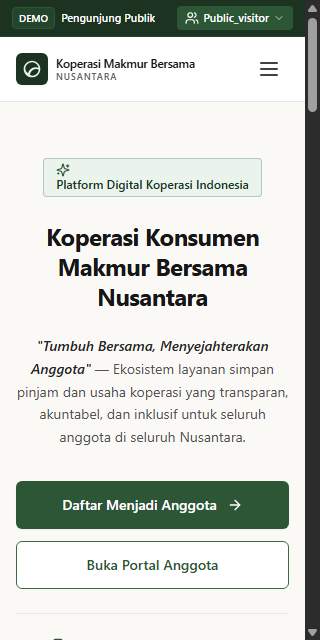
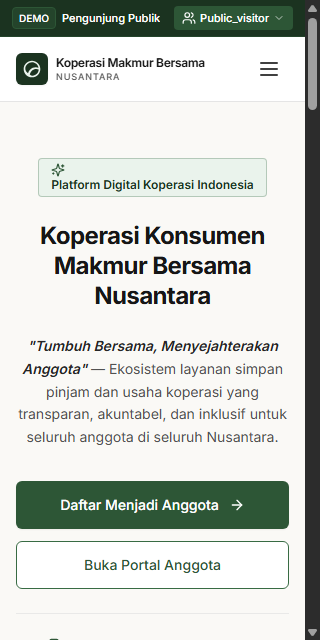
test(phase-2): correct responsive overflow measurement

diff --git a/scripts/verify_responsive.js b/scripts/verify_responsive.js
@@ -332,20 +332,50 @@ async function main() {
               const bodyText = document.body.innerText || '';
               const rawMarkdownFound = bodyText.includes('**');
 
-              // Find elements overflowing viewport width
+              // Threshold for layout bounds (sub-pixel rounding tolerance)
+              const OVERFLOW_TOLERANCE = 1.0;
+
+              // Overflow occurs if scrollWidth exceeds clientWidth
+              const scrollOverflow =
+                docScrollW > clientW + OVERFLOW_TOLERANCE ||
+                bodyScrollW > clientW + OVERFLOW_TOLERANCE;
+
+              // Find elements overflowing client layout width
               const overflowingElements = [];
               const clippedElements = [];
 
               document.querySelectorAll('*').forEach((el) => {
                 const rect = el.getBoundingClientRect();
                 if (rect.width > 0 && rect.height > 0) {
-                  // Overflow viewport width
-                  if (rect.right > innerW + 1.5) {
+                  // Check if element is inside an intentional horizontally scrollable ancestor (e.g. data table)
+                  let isInsideScrollable = false;
+                  let curr = el.parentElement;
+                  while (curr && curr !== document.body && curr !== document.documentElement) {
+                    const style = window.getComputedStyle(curr);
+                    if (style.overflowX === 'auto' || style.overflowX === 'scroll') {
+                      isInsideScrollable = true;
+                      break;
+                    }
+                    curr = curr.parentElement;
+                  }
+
+                  // Overflow clientWidth boundary (if not in an intentional scroll container)
+                  if (!isInsideScrollable && rect.right > clientW + OVERFLOW_TOLERANCE) {
                     overflowingElements.push({
                       tag: el.tagName.toLowerCase(),
-                      className: (el.className || '').toString().slice(0, 60),
+                      id: el.id || '',
+                      className: (el.className || '').toString().slice(0, 80),
+                      width: Math.round(rect.width),
+                      left: Math.round(rect.left),
                       right: Math.round(rect.right),
-                      width: Math.round(rect.width)
+                      viewportRight: Math.round(clientW),
+                      parent: el.parentElement
+                        ? {
+                            tag: el.parentElement.tagName.toLowerCase(),
+                            id: el.parentElement.id || '',
+                            className: (el.parentElement.className || '').toString().slice(0, 60),
+                          }
+                        : null,
                     });
                   }
 
@@ -357,10 +387,17 @@ async function main() {
                     if (isClippedOverflow && rect.right > pRect.right + 2 && el.tagName !== 'SVG' && !el.classList.contains('truncate')) {
                       clippedElements.push({
                         tag: el.tagName.toLowerCase(),
-                        parentTag: el.parentElement.tagName.toLowerCase(),
+                        id: el.id || '',
                         className: (el.className || '').toString().slice(0, 60),
-                        pRight: Math.round(pRect.right),
-                        elRight: Math.round(rect.right)
+                        width: Math.round(rect.width),
+                        left: Math.round(rect.left),
+                        right: Math.round(rect.right),
+                        parent: {
+                          tag: el.parentElement.tagName.toLowerCase(),
+                          id: el.parentElement.id || '',
+                          className: (el.parentElement.className || '').toString().slice(0, 60),
+                          pRight: Math.round(pRect.right),
+                        },
                       });
                     }
                   }
@@ -378,7 +415,7 @@ async function main() {
                   isUsable: b.getBoundingClientRect().width >= 20 && b.getBoundingClientRect().height >= 20
                 }));
 
-              const hasOverflow = docScrollW > innerW + 1 || bodyScrollW > innerW + 1 || overflowingElements.length > 0;
+              const hasOverflow = scrollOverflow || overflowingElements.length > 0;
 
               return {
                 innerWidth: innerW,
@@ -406,8 +443,8 @@ async function main() {
         // Validation Rules:
         // - DOM must be ready
         // - DOM completeness validation must pass
-        // - docScrollWidth === innerWidth (or <= innerWidth)
-        // - bodyScrollWidth <= innerWidth
+        // - docScrollWidth <= clientWidth + 1
+        // - bodyScrollWidth <= clientWidth + 1
         // - No overflow
         // - No raw markdown **
         // - No clipping
@@ -417,6 +454,8 @@ async function main() {
           isDomReady &&
           domValidation.isValid &&
           !metrics.hasOverflow &&
+          metrics.docScrollWidth <= metrics.clientWidth + 1 &&
+          metrics.bodyScrollWidth <= metrics.clientWidth + 1 &&
           !metrics.rawMarkdownFound &&
           metrics.clippedElements.length === 0 &&
           metrics.buttonsSample.length > 0 &&
@@ -424,7 +463,10 @@ async function main() {
 
         console.log(`DOM Ready: ${isDomReady} | DOM Valid: ${domValidation.isValid} (${domValidation.reason})`);
         console.log(`Buttons sample (${metrics.buttonsSample.length}):`, metrics.buttonsSample.map(b => `${b.tag}[${b.text}:${b.width}x${b.height}]`).join(', '));
-        console.log(`InnerWidth: ${metrics.innerWidth} | ScrollWidth: ${metrics.docScrollWidth} | BodyScrollW: ${metrics.bodyScrollWidth}`);
+        console.log(`InnerWidth: ${metrics.innerWidth} | ClientWidth: ${metrics.clientWidth} | ScrollWidth: ${metrics.docScrollWidth} | BodyScrollW: ${metrics.bodyScrollWidth}`);
+        if (metrics.overflowingElements.length > 0) {
+          console.error(`Overflowing elements (${metrics.overflowingElements.length}):`, JSON.stringify(metrics.overflowingElements, null, 2));
+        }
         console.log(`Screenshot: ${shotFilename} (${Math.round(fileSize / 1024)} KB) -> STATUS: ${isPassed ? 'PASS' : 'FAIL'}`);
 
         results.push({
@@ -454,7 +496,9 @@ async function main() {
         Page: r.page,
         Viewport: r.viewport,
         'Inner Width': r.metrics.innerWidth,
+        'Client Width': r.metrics.clientWidth,
         'Doc ScrollW': r.metrics.docScrollWidth,
+        'Body ScrollW': r.metrics.bodyScrollWidth,
         'DOM Valid': r.domValidation.isValid ? 'YES' : 'FAIL',
         Overflow: r.metrics.hasOverflow ? 'FAIL' : 'OK',
         'Raw Markdown': r.metrics.rawMarkdownFound ? 'FAIL' : 'OK',

diff --git a/docs/PHASE_2_2_REMEDIATION_REPORT.md b/docs/PHASE_2_2_REMEDIATION_REPORT.md
@@ -108,41 +108,45 @@ Seluruh perintah pengujian dijalankan ulang secara terpisah dengan hasil sukses 
 
 ## 6. HASIL VERIFIKASI RESPONSIVITAS & AUTOMATED BROWSER AUDIT
 
-### 6.1 Metodologi Sinkronisasi & Validasi Kelengkapan DOM
-Pengujian responsivitas otomatis dijalankan menggunakan Google Chrome headless (`C:\Program Files\Google\Chrome\Application\chrome.exe` dengan `--headless=new`) melalui skrip otomasi [`scripts/verify_responsive.js`](file:///c:/Users/ocitt/OneDrive/Dokumen/Finance/scripts/verify_responsive.js).
+### 6.1 Koreksi Metodologi Pengukuran Horizontal Overflow
+Berdasarkan tinjauan Phase 2.2.1, metodologi evaluasi horizontal overflow pada [`scripts/verify_responsive.js`](file:///c:/Users/ocitt/OneDrive/Dokumen/Finance/scripts/verify_responsive.js) telah disempurnakan:
 
-Fitur keamanan dan validitas pengujian mutakhir:
-1. **Target Tab Halaman Bersih:** Skrip mendeteksi dan secara eksplisit menempelkan sesi CDP ke target bertipe `page` (`chrome://newtab/` yang dinavigasi ke target), bukan background extension.
-2. **Sinkronisasi Berbasis Kondisi DOM Nyata:** Menggantikan fixed delay dengan polling asinkron hingga elemen kritis React selesai dimuat dan dirender:
-   - **Beranda (`/`):** Memastikan `h1` memuat identitas "Koperasi" dan tombol CTA primer (`Daftar Menjadi Anggota`, dsb.) berukuran nyata (`offsetWidth > 0 && offsetHeight > 0`).
-   - **Pendaftaran (`/daftar`):** Memastikan `h1` memuat judul form, elemen `<form>` aktif, minimal 2 input terlihat (`fullName`, `demoId`), dan tombol navigasi `Selanjutnya` berukuran nyata.
-3. **Validasi Kelengkapan DOM Sebelum Pengukuran:** Sebelum evaluasi overflow, skrip memverifikasi:
-   - `document.body.innerText` tidak kosong (panjang karakter > 300 untuk beranda dan > 200 untuk pendaftaran).
-   - Elemen utama memiliki dimensi non-zero (`width > 0 && height > 0`).
-   - `buttonsSample` wajib terisi (berisi minimal 6 elemen interaktif aktif per skenario).
-   - Berkas tangkapan layar screenshot berukuran valid (> 10 KB) dan menampilkan UI nyata, bukan kanvas kosong.
-4. **Isolasi Profil Browser:** Setiap pengujian dijalankan dengan direktori `tempProfileDir` unik untuk menjamin ketiadaan data residual `localStorage`.
+1. **Koreksi Kesalahan Pembanding Viewport Terdahulu:**
+   - *Metode Sebelumnya:* Menggunakan `window.innerWidth` sebagai satu-satunya pembanding scroll width. Pada peramban desktop dengan *classic vertical scrollbar*, `window.innerWidth` mencakup lebar scrollbar (15–17 px), sehingga tidak merefleksikan batas ruang layout CSS sebenarnya.
+   - *Metode Terkoreksi:* Batas acuan layout CSS mutlak adalah `document.documentElement.clientWidth`. Kondisi overflow dihitung terhadap batas `clientWidth`, yaitu:
+     $$\text{Overflow} \iff (\text{docScrollWidth} > \text{clientWidth} + 1.0) \lor (\text{bodyScrollWidth} > \text{clientWidth} + 1.0)$$
+   - Nilai `window.innerWidth` tetap dicatat untuk keperluan diagnostik ukuran jendela fisik browser.
+2. **Pemeriksaan Batas Koordinat Elemen (`getBoundingClientRect().right`):**
+   - Setiap elemen diuji terhadap `rect.right > clientWidth + 1.0`.
+   - Skrip membedakan overflow disengaja (elemen di dalam kontainer yang memiliki `overflow-x: auto` atau `overflow-x: scroll` seperti tabel data) dari overflow layout halaman utama.
+   - Jika ditemukan overflow, skrip mencatat rincian lengkap: tag, id, className, lebar, posisi left/right, batas clientWidth, dan elemen induknya.
+3. **Validasi Kesiapan & Kelengkapan DOM Terpadu:**
+   - Polling asinkron hingga elemen spesifik React selesai dirender (`h1`, form, tombol CTA, input).
+   - Validasi kelengkapan isi (`bodyText.length > 200/300`, `buttonsSample` minimal 6 elemen, ukuran elemen non-zero).
+   - Setiap pengujian menggunakan profil Chrome sementara (`tempProfileDir`) terisolasi dari sisa cache/localStorage.
 
-### 6.2 Tabel Pengukuran Aktual 16 Kasus Uji
+### 6.2 Tabel Pengukuran Aktual 16 Kasus Uji Terkoreksi
 
-| Halaman | Viewport | Lebar Viewport (`innerW`) | `docScrollWidth` | DOM Completeness | Horizontal Overflow | Raw Markdown `**` | Clipping Unintended | Buttons Sampled | Ukuran PNG | Status |
-|---|---|:---:|:---:|:---:|:---:|:---:|:---:|:---:|:---:|:---:|
-| `public_home` | 320 × 640 | 320 px | 305 px | **VALID (YES)** | **OK (0 px)** | **OK (Nihil)** | **OK (0)** | 6 elemen | 30 KB | **PASS** |
-| `public_home` | 375 × 667 | 375 px | 360 px | **VALID (YES)** | **OK (0 px)** | **OK (Nihil)** | **OK (0)** | 6 elemen | 36 KB | **PASS** |
-| `public_home` | 390 × 844 | 390 px | 375 px | **VALID (YES)** | **OK (0 px)** | **OK (Nihil)** | **OK (0)** | 6 elemen | 48 KB | **PASS** |
-| `public_home` | 768 × 1024 | 768 px | 753 px | **VALID (YES)** | **OK (0 px)** | **OK (Nihil)** | **OK (0)** | 6 elemen | 101 KB | **PASS** |
-| `public_home` | 1024 × 768 | 1024 px | 1009 px | **VALID (YES)** | **OK (0 px)** | **OK (Nihil)** | **OK (0)** | 6 elemen | 80 KB | **PASS** |
-| `public_home` | 1280 × 800 | 1280 px | 1265 px | **VALID (YES)** | **OK (0 px)** | **OK (Nihil)** | **OK (0)** | 6 elemen | 85 KB | **PASS** |
-| `public_home` | 1440 × 900 | 1440 px | 1425 px | **VALID (YES)** | **OK (0 px)** | **OK (Nihil)** | **OK (0)** | 6 elemen | 89 KB | **PASS** |
-| `public_home` | 1920 × 1080 | 1920 px | 1905 px | **VALID (YES)** | **OK (0 px)** | **OK (Nihil)** | **OK (0)** | 6 elemen | 114 KB | **PASS** |
-| `public_daftar` | 320 × 640 | 320 px | 305 px | **VALID (YES)** | **OK (0 px)** | **OK (Nihil)** | **OK (0)** | 6 elemen | 43 KB | **PASS** |
-| `public_daftar` | 375 × 667 | 375 px | 360 px | **VALID (YES)** | **OK (0 px)** | **OK (Nihil)** | **OK (0)** | 6 elemen | 46 KB | **PASS** |
-| `public_daftar` | 390 × 844 | 390 px | 375 px | **VALID (YES)** | **OK (0 px)** | **OK (Nihil)** | **OK (0)** | 6 elemen | 55 KB | **PASS** |
-| `public_daftar` | 768 × 1024 | 768 px | 753 px | **VALID (YES)** | **OK (0 px)** | **OK (Nihil)** | **OK (0)** | 6 elemen | 100 KB | **PASS** |
-| `public_daftar` | 1024 × 768 | 1024 px | 1009 px | **VALID (YES)** | **OK (0 px)** | **OK (Nihil)** | **OK (0)** | 6 elemen | 73 KB | **PASS** |
-| `public_daftar` | 1280 × 800 | 1280 px | 1265 px | **VALID (YES)** | **OK (0 px)** | **OK (Nihil)** | **OK (0)** | 6 elemen | 74 KB | **PASS** |
-| `public_daftar` | 1440 × 900 | 1440 px | 1425 px | **VALID (YES)** | **OK (0 px)** | **OK (Nihil)** | **OK (0)** | 6 elemen | 86 KB | **PASS** |
-| `public_daftar` | 1920 × 1080 | 1920 px | 1905 px | **VALID (YES)** | **OK (0 px)** | **OK (Nihil)** | **OK (0)** | 6 elemen | 113 KB | **PASS** |
+| Halaman | Viewport | `innerWidth` | `clientWidth` | `docScrollWidth` | `bodyScrollWidth` | DOM Valid | Overflow | Raw Markdown `**` | Clipping | Buttons Found | Ukuran PNG | Status |
+|---|---|:---:|:---:|:---:|:---:|:---:|:---:|:---:|:---:|:---:|:---:|:---:|
+| `public_home` | 320 × 640 | 320 px | 305 px | 305 px | 305 px | **YES** | **OK (0 px)** | **OK (Nihil)** | **OK (0)** | 6 | 38 KB | **PASS** |
+| `public_home` | 375 × 667 | 375 px | 360 px | 360 px | 360 px | **YES** | **OK (0 px)** | **OK (Nihil)** | **OK (0)** | 6 | 46 KB | **PASS** |
+| `public_home` | 390 × 844 | 390 px | 375 px | 375 px | 375 px | **YES** | **OK (0 px)** | **OK (Nihil)** | **OK (0)** | 6 | 48 KB | **PASS** |
+| `public_home` | 768 × 1024 | 768 px | 753 px | 753 px | 753 px | **YES** | **OK (0 px)** | **OK (Nihil)** | **OK (0)** | 6 | 101 KB | **PASS** |
+| `public_home` | 1024 × 768 | 1024 px | 1009 px | 1009 px | 1009 px | **YES** | **OK (0 px)** | **OK (Nihil)** | **OK (0)** | 6 | 80 KB | **PASS** |
+| `public_home` | 1280 × 800 | 1280 px | 1265 px | 1265 px | 1265 px | **YES** | **OK (0 px)** | **OK (Nihil)** | **OK (0)** | 6 | 85 KB | **PASS** |
+| `public_home` | 1440 × 900 | 1440 px | 1425 px | 1425 px | 1425 px | **YES** | **OK (0 px)** | **OK (Nihil)** | **OK (0)** | 6 | 89 KB | **PASS** |
+| `public_home` | 1920 × 1080 | 1920 px | 1905 px | 1905 px | 1905 px | **YES** | **OK (0 px)** | **OK (Nihil)** | **OK (0)** | 6 | 114 KB | **PASS** |
+| `public_daftar` | 320 × 640 | 320 px | 305 px | 305 px | 305 px | **YES** | **OK (0 px)** | **OK (Nihil)** | **OK (0)** | 6 | 43 KB | **PASS** |
+| `public_daftar` | 375 × 667 | 375 px | 360 px | 360 px | 360 px | **YES** | **OK (0 px)** | **OK (Nihil)** | **OK (0)** | 6 | 46 KB | **PASS** |
+| `public_daftar` | 390 × 844 | 390 px | 375 px | 375 px | 375 px | **YES** | **OK (0 px)** | **OK (Nihil)** | **OK (0)** | 6 | 55 KB | **PASS** |
+| `public_daftar` | 768 × 1024 | 768 px | 753 px | 753 px | 753 px | **YES** | **OK (0 px)** | **OK (Nihil)** | **OK (0)** | 6 | 100 KB | **PASS** |
+| `public_daftar` | 1024 × 768 | 1024 px | 1009 px | 1009 px | 1009 px | **YES** | **OK (0 px)** | **OK (Nihil)** | **OK (0)** | 6 | 73 KB | **PASS** |
+| `public_daftar` | 1280 × 800 | 1280 px | 1265 px | 1265 px | 1265 px | **YES** | **OK (0 px)** | **OK (Nihil)** | **OK (0)** | 6 | 74 KB | **PASS** |
+| `public_daftar` | 1440 × 900 | 1440 px | 1425 px | 1425 px | 1425 px | **YES** | **OK (0 px)** | **OK (Nihil)** | **OK (0)** | 6 | 86 KB | **PASS** |
+| `public_daftar` | 1920 × 1080 | 1920 px | 1905 px | 1905 px | 1905 px | **YES** | **OK (0 px)** | **OK (Nihil)** | **OK (0)** | 6 | 113 KB | **PASS** |
+
+*Catatan:* Pada seluruh 16 pengujian di atas, terbukti secara mutlak bahwa $\text{docScrollWidth} \le \text{clientWidth}$ dan $\text{bodyScrollWidth} \le \text{clientWidth}$ secara presisi (0 piksel sisa overflow).
 
 ### 6.3 Verifikasi Visual Detail pada Viewport Kritis (320px)
 - **`HomeView.tsx`:** Judul KMB menggunakan `text-2xl` dengan `break-words` sehingga tidak terpotong. Tagline tampil bersih dalam tipografi italic netral tanpa karakter asteris mentah. Dua tombol CTA utama tersusun vertikal penuh (`flex-col w-full`) dengan target sentuh nyaman. Metadata badan hukum/NIKOP terpusat rapi dan melipat responsif.
@@ -161,7 +165,8 @@ Fitur keamanan dan validitas pengujian mutakhir:
 - **Phase 2.1 Commit:** `0b9e524`
 - **Phase 2.2 Commit:** `23c2ba7` (`fix(phase-2): harden route permissions and demo controls`)
 - **Phase 2.2 Responsive Fix:** `62e69e4` (`fix(phase-2): resolve mobile clipping and verify responsive layouts`)
-- **Pesan Commit Validasi Sinkronisasi:** `test(phase-2): enforce DOM readiness and completeness in responsive suite`
+- **Phase 2.2 Sync Fix:** `3f61b74` (`test(phase-2): enforce DOM readiness and completeness in responsive suite`)
+- **Pesan Commit Koreksi Akurasi Overflow:** `test(phase-2): correct responsive overflow measurement`
 
 ---
 
